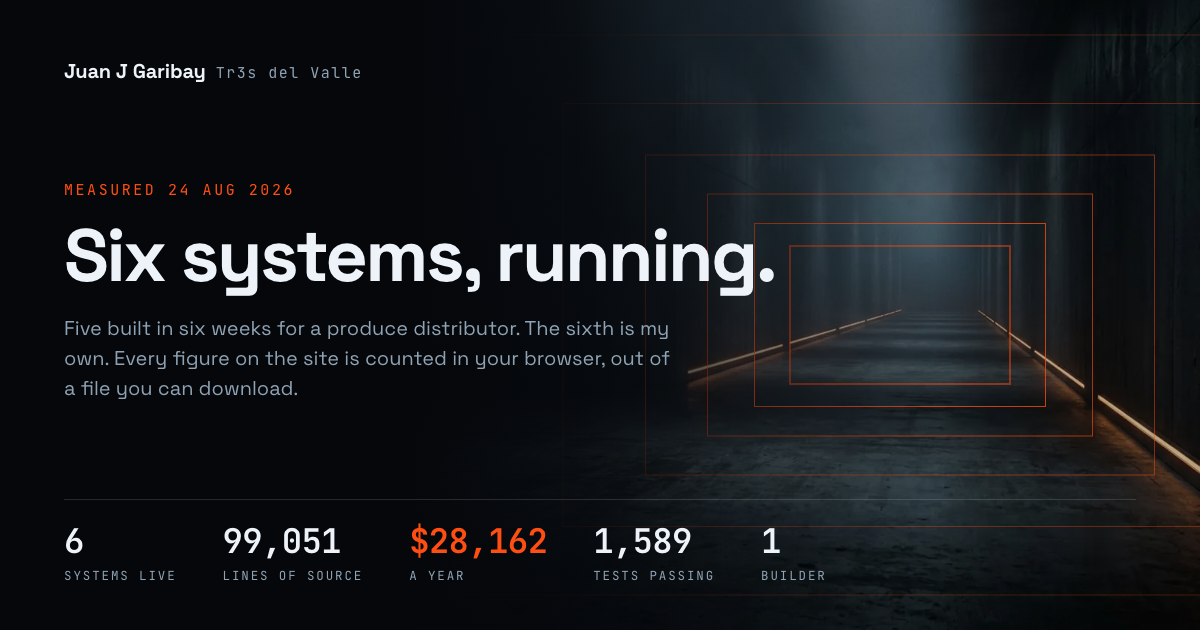
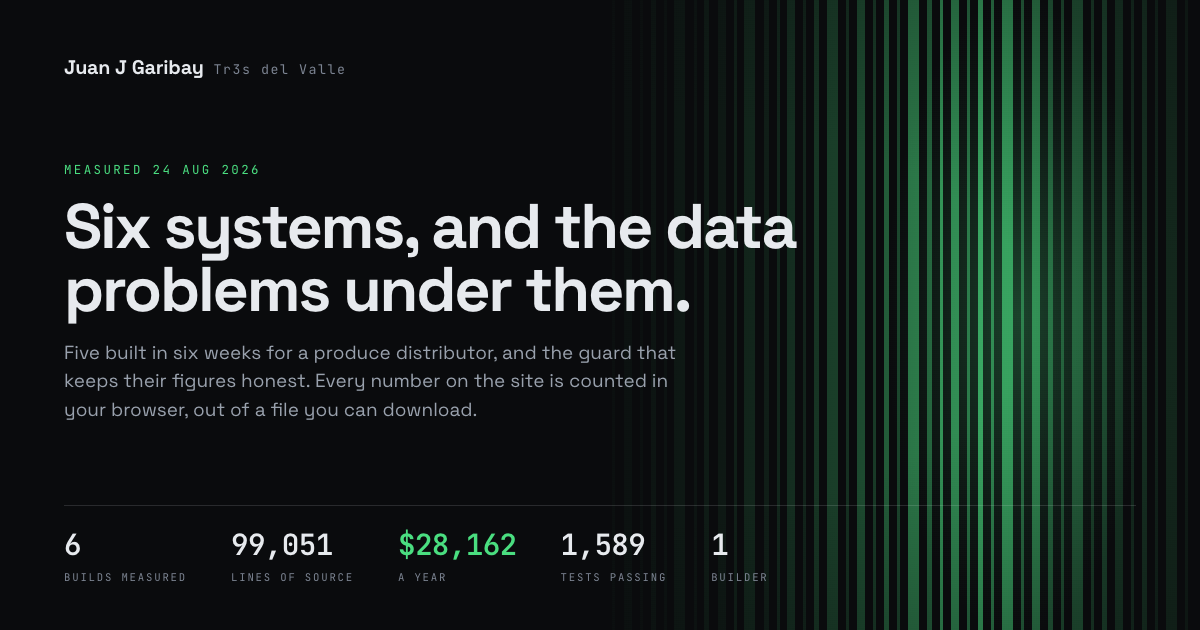
feat(og): the card matches the page it links to, and can be rebuilt
The social card was still the flight's: orange, corridor frames, and a
headline the front page no longer carries. Every link preview of the
site advertised a page that had been replaced.

It is now the case pack's — the site's near-black and its one green, and
the Code 128 field the page draws in a shader, drawn here in CSS at the
moment of one sweep. Type is self-hosted from css/fonts.css instead of
fetched from Google, so the render is deterministic and needs no network.

The figures still cover all six builds, not the five the pack shows, and
check.mjs still asserts every one of them against js/data.js. The labels
now say what they count: "Builds measured", not "Systems live", because
one of the six is in use rather than live.

Bumped the query to ?v=2026-08-24-b on all three pages. img/ is served
immutable for a year, so a card regenerated at the same URL is a card
nobody ever sees — the guard only requires the query to contain the
measurement date, which leaves room for a revision suffix when the art
moves and the measurement has not.

Added tools/render-og.sh, which is what the file's own comment has been
claiming existed since it was written. It renders over http rather than
file://, because the card loads its fonts by relative path and a file://
origin silently sets the whole card in a fallback face.

diff --git a/og-source.html b/og-source.html
@@ -4,19 +4,23 @@
      figures change, instead of becoming a stale binary nobody can rebuild.
      Excluded from deploys via .vercelignore.
 
-     Restyled 24 Aug 2026 to match the flight that is now the front page: the
-     same near-black, the same single orange, and the same nested gantry frames
-     the corridor is built from. A social card that does not look like the page
-     it links to is a broken promise before anyone has clicked. -->
+     Restyled 8 Sep 2026 for the case pack that is now the front page: the
+     site's own near-black and its one green, and the Code 128 field the page
+     draws in a shader, drawn here in CSS. A social card that does not look
+     like the page it links to is a broken promise before anyone has clicked.
+
+     The figures here cover all SIX builds — every repository in
+     evidence.json, Currents included — which is why they are larger than the
+     five-tool totals the pack itself shows. check.mjs asserts each one
+     against js/data.js, because nothing can read a number once it is inside
+     a PNG.
+
+     Type is self-hosted from css/fonts.css rather than fetched from a CDN, so
+     the render is deterministic and needs no network. -->
 <html lang="en">
   <head>
     <meta charset="utf-8" />
-    <link rel="preconnect" href="https://fonts.googleapis.com" />
-    <link rel="preconnect" href="https://fonts.gstatic.com" crossorigin />
-    <link
-      rel="stylesheet"
-      href="https://fonts.googleapis.com/css2?family=Space+Grotesk:wght@400;500;700&family=JetBrains+Mono:wght@400;500;600&display=swap"
-    />
+    <link rel="stylesheet" href="css/fonts.css" />
     <style>
       * { margin: 0; padding: 0; box-sizing: border-box; }
 
@@ -24,46 +28,59 @@
         width: 1200px;
         height: 630px;
         overflow: hidden;
-        background: #05070b;
-        color: #edf3f8;
+        background: #0a0b0d;
+        color: #e7eaee;
         font-family: 'Space Grotesk', system-ui, sans-serif;
         display: flex;
         flex-direction: column;
         justify-content: space-between;
-        padding: 58px 64px 46px;
+        padding: 54px 64px 46px;
         position: relative;
         -webkit-font-smoothing: antialiased;
       }
 
-      /* A real corridor behind, and the CSS frames on top of it. The drawn
-         frames stay: they are what ties the card to the page, which is built
-         out of exactly that shape. */
-      .plate {
-        position: absolute; inset: 0;
-        width: 100%; height: 100%;
-        object-fit: cover;
-        opacity: 0.72;
+      /* The field. The page draws this in a fragment shader — bands of Code 128
+         bars at four depths with a beam sweeping them. Here it is that field at
+         the moment of one sweep, which is all a still card can be. */
+      .field { position: absolute; inset: 0; overflow: hidden; }
+      .field i {
+        position: absolute;
+        top: 0;
+        height: 100%;
+        background: #4ade80;
       }
 
-      /* The corridor, in CSS. Nested frames receding to a vanishing point set
-         right of centre, exactly like the page: the type holds the left. */
-      .corridor { position: absolute; inset: 0; overflow: hidden; }
-      /* Density only where the type sits, same as the page. Without it the
-         frames run straight through the headline and the sub. */
-      .corridor::after {
+      /* The beam, caught mid-pass on the right, where the type is not. */
+      .beam {
+        position: absolute;
+        top: 0;
+        bottom: 0;
+        left: 74%;
+        width: 260px;
+        background: radial-gradient(ellipse at center,
+          rgba(74, 222, 128, 0.30) 0%,
+          rgba(74, 222, 128, 0.10) 45%,
+          transparent 72%);
+      }
+
+      /* Density only where the type is not, same as the page: the field is at
+         full strength on the right and gone under the headline. */
+      .field::after {
         content: '';
         position: absolute; inset: 0;
         background: linear-gradient(to right,
-          #05070b 0%, #05070b 34%,
-          rgba(5, 7, 11, 0.86) 48%,
-          rgba(5, 7, 11, 0.35) 64%,
-          transparent 78%);
+          #0a0b0d 0%, #0a0b0d 33%,
+          rgba(10, 11, 13, 0.90) 46%,
+          rgba(10, 11, 13, 0.55) 62%,
+          rgba(10, 11, 13, 0.18) 80%,
+          transparent 100%);
       }
-      .corridor i {
-        position: absolute;
-        left: 50%; top: 50%;
-        border: 1px solid #ff4e12;
-        transform: translate(-50%, -50%);
+
+      /* The vignette the shader ends on. */
+      .vignette {
+        position: absolute; inset: 0;
+        background: radial-gradient(ellipse 90% 80% at 50% 50%,
+          transparent 40%, rgba(10, 11, 13, 0.55) 100%);
       }
 
       .byline {
@@ -71,77 +88,121 @@
         font-family: 'JetBrains Mono', monospace;
         font-size: 15px;
         letter-spacing: 0.1em;
-        color: #8fa3b4;
+        color: #7c8492;
         display: flex;
         gap: 10px;
         align-items: baseline;
       }
-      .byline strong { color: #edf3f8; font-family: 'Space Grotesk', sans-serif; font-size: 20px; font-weight: 700; letter-spacing: -0.01em; }
+      .byline strong {
+        color: #e7eaee;
+        font-family: 'Space Grotesk', sans-serif;
+        font-size: 20px;
+        font-weight: 700;
+        letter-spacing: -0.01em;
+      }
 
-      .top { position: relative; max-width: 720px; }
+      .top { position: relative; max-width: 760px; }
 
       .kicker {
         font-family: 'JetBrains Mono', monospace;
-        font-size: 15px;
+        font-size: 14px;
         letter-spacing: 0.17em;
         text-transform: uppercase;
-        color: #ff4e12;
-        margin-bottom: 20px;
+        color: #4ade80;
+        margin-bottom: 18px;
       }
 
       h1 {
-        font-size: 74px;
+        font-size: 64px;
         line-height: 0.98;
         letter-spacing: -0.035em;
         font-weight: 700;
-        margin-bottom: 20px;
+        margin-bottom: 18px;
       }
 
       .sub {
-        font-size: 20px;
+        font-size: 19px;
         line-height: 1.5;
-        color: #8fa3b4;
-        max-width: 610px;
+        color: #99a1ad;
+        max-width: 640px;
       }
 
       .stats {
         position: relative;
         display: flex;
-        gap: 46px;
-        border-top: 1px solid rgba(237, 243, 248, 0.14);
-        padding-top: 24px;
+        gap: 44px;
+        border-top: 1px solid rgba(231, 234, 238, 0.14);
+        padding-top: 22px;
       }
       .stat-value {
         font-family: 'JetBrains Mono', monospace;
-        font-size: 34px;
+        font-size: 33px;
         font-weight: 600;
         letter-spacing: -0.02em;
         font-variant-numeric: tabular-nums;
         line-height: 1;
       }
-      .stat-value.accent { color: #ff4e12; }
+      .stat-value.accent { color: #4ade80; }
       .stat-label {
         font-family: 'JetBrains Mono', monospace;
-        font-size: 12.5px;
+        font-size: 12px;
         letter-spacing: 0.15em;
         text-transform: uppercase;
-        color: #8fa3b4;
+        color: #7c8492;
         margin-top: 9px;
       }
     </style>
   </head>
   <body>
-    <img class="plate" src="img/og-plate.webp" alt="" />
-    <div class="corridor" aria-hidden="true">
-      <i style="width:1560px;height:980px;margin-left:300px;opacity:0.10"></i>
-      <i style="width:1180px;height:742px;margin-left:300px;opacity:0.16"></i>
-      <i style="width:892px;height:561px;margin-left:300px;opacity:0.24"></i>
-      <i style="width:675px;height:424px;margin-left:300px;opacity:0.34"></i>
-      <i style="width:510px;height:321px;margin-left:300px;opacity:0.46"></i>
-      <i style="width:386px;height:243px;margin-left:300px;opacity:0.60"></i>
-      <i style="width:292px;height:184px;margin-left:300px;opacity:0.76"></i>
-      <i style="width:221px;height:139px;margin-left:300px;opacity:0.92"></i>
+    <!-- Bar widths are quantised to four values, which is what makes a barcode
+         read as a barcode rather than as a stripe pattern. -->
+    <div class="field" aria-hidden="true">
+      <i style="left:612px;width:3px;opacity:0.10"></i>
+      <i style="left:624px;width:8px;opacity:0.13"></i>
+      <i style="left:640px;width:3px;opacity:0.09"></i>
+      <i style="left:651px;width:5px;opacity:0.16"></i>
+      <i style="left:664px;width:3px;opacity:0.11"></i>
+      <i style="left:674px;width:11px;opacity:0.18"></i>
+      <i style="left:694px;width:3px;opacity:0.12"></i>
+      <i style="left:704px;width:5px;opacity:0.20"></i>
+      <i style="left:718px;width:8px;opacity:0.15"></i>
+      <i style="left:734px;width:3px;opacity:0.22"></i>
+      <i style="left:744px;width:11px;opacity:0.26"></i>
+      <i style="left:764px;width:5px;opacity:0.18"></i>
+      <i style="left:777px;width:3px;opacity:0.24"></i>
+      <i style="left:787px;width:8px;opacity:0.30"></i>
+      <i style="left:803px;width:3px;opacity:0.21"></i>
+      <i style="left:814px;width:5px;opacity:0.34"></i>
+      <i style="left:827px;width:11px;opacity:0.40"></i>
+      <i style="left:846px;width:3px;opacity:0.28"></i>
+      <i style="left:857px;width:8px;opacity:0.46"></i>
+      <i style="left:873px;width:3px;opacity:0.33"></i>
+      <i style="left:884px;width:5px;opacity:0.55"></i>
+      <i style="left:897px;width:3px;opacity:0.38"></i>
+      <i style="left:908px;width:11px;opacity:0.68"></i>
+      <i style="left:927px;width:5px;opacity:0.52"></i>
+      <i style="left:940px;width:3px;opacity:0.80"></i>
+      <i style="left:951px;width:8px;opacity:0.72"></i>
+      <i style="left:967px;width:3px;opacity:0.58"></i>
+      <i style="left:978px;width:5px;opacity:0.86"></i>
+      <i style="left:991px;width:3px;opacity:0.64"></i>
+      <i style="left:1002px;width:11px;opacity:0.78"></i>
+      <i style="left:1021px;width:3px;opacity:0.50"></i>
+      <i style="left:1032px;width:8px;opacity:0.62"></i>
+      <i style="left:1048px;width:5px;opacity:0.44"></i>
+      <i style="left:1061px;width:3px;opacity:0.36"></i>
+      <i style="left:1072px;width:11px;opacity:0.40"></i>
+      <i style="left:1091px;width:3px;opacity:0.26"></i>
+      <i style="left:1102px;width:5px;opacity:0.30"></i>
+      <i style="left:1115px;width:8px;opacity:0.22"></i>
+      <i style="left:1131px;width:3px;opacity:0.17"></i>
+      <i style="left:1142px;width:5px;opacity:0.20"></i>
+      <i style="left:1155px;width:3px;opacity:0.13"></i>
+      <i style="left:1166px;width:11px;opacity:0.15"></i>
+      <i style="left:1185px;width:3px;opacity:0.09"></i>
+      <div class="beam"></div>
     </div>
+    <div class="vignette" aria-hidden="true"></div>
 
     <div class="byline">
       <strong>Juan J Garibay</strong>
@@ -150,17 +211,18 @@
 
     <div class="top">
       <div class="kicker">Measured 24 Aug 2026</div>
-      <h1>Six systems, running.</h1>
+      <h1>Six systems, and the data problems under them.</h1>
       <p class="sub">
-        Five built in six weeks for a produce distributor. The sixth is my own. Every figure on
-        the site is counted in your browser, out of a file you can download.
+        Five built in six weeks for a produce distributor, and the guard that keeps their
+        figures honest. Every number on the site is counted in your browser, out of a file
+        you can download.
       </p>
     </div>
 
     <div class="stats">
       <div class="stat">
         <div class="stat-value">6</div>
-        <div class="stat-label">Systems live</div>
+        <div class="stat-label">Builds measured</div>
       </div>
       <div class="stat">
         <div class="stat-value">99,051</div>

diff --git a/index.html b/index.html
@@ -31,14 +31,14 @@
 <meta property="og:url" content="https://juan-garibay-portfolio.vercel.app/">
 <meta property="og:title" content="Six systems, and the data problems under them">
 <meta property="og:description" content="An operations case pack: five production tools and one control layer, each on the same twelve-block schema, with every figure counted in your browser from a file you can download.">
-<meta property="og:image" content="https://juan-garibay-portfolio.vercel.app/img/og.png?v=2026-08-24">
+<meta property="og:image" content="https://juan-garibay-portfolio.vercel.app/img/og.png?v=2026-08-24-b">
 <meta property="og:image:width" content="1200">
 <meta property="og:image:height" content="630">
 <meta property="og:image:alt" content="A dark corridor of receding orange frames, with the headline and a row of measured totals across the bottom.">
 <meta name="twitter:card" content="summary_large_image">
 <meta name="twitter:title" content="Six systems, and the data problems under them">
 <meta name="twitter:description" content="Five production tools and one control layer, each on the same twelve-block schema.">
-<meta name="twitter:image" content="https://juan-garibay-portfolio.vercel.app/img/og.png?v=2026-08-24">
+<meta name="twitter:image" content="https://juan-garibay-portfolio.vercel.app/img/og.png?v=2026-08-24-b">
 
 <script type="application/ld+json">
 {

diff --git a/flight.html b/flight.html
@@ -25,14 +25,14 @@
 <meta property="og:url" content="https://juan-garibay-portfolio.vercel.app/flight.html">
 <meta property="og:title" content="Six systems, running.">
 <meta property="og:description" content="Five built in six weeks for a produce distributor. The sixth is my own. Every figure on this page is counted in your browser, out of a file you can download.">
-<meta property="og:image" content="https://juan-garibay-portfolio.vercel.app/img/og.png?v=2026-08-24">
+<meta property="og:image" content="https://juan-garibay-portfolio.vercel.app/img/og.png?v=2026-08-24-b">
 <meta property="og:image:width" content="1200">
 <meta property="og:image:height" content="630">
 <meta property="og:image:alt" content="A dark corridor of receding orange frames, with the headline and a row of measured totals across the bottom.">
 <meta name="twitter:card" content="summary_large_image">
 <meta name="twitter:title" content="Six systems, running.">
 <meta name="twitter:description" content="Every figure on this page is counted in your browser, out of a file you can download.">
-<meta name="twitter:image" content="https://juan-garibay-portfolio.vercel.app/img/og.png?v=2026-08-24">
+<meta name="twitter:image" content="https://juan-garibay-portfolio.vercel.app/img/og.png?v=2026-08-24-b">
 <meta name="author" content="Juan J Garibay">
 <script type="application/ld+json">
 {

diff --git a/evidence.html b/evidence.html
@@ -22,7 +22,7 @@
     />
     <!-- Card regenerated from og-source.html whenever the headline figures move,
          so the preview can never drift from the page it advertises. -->
-    <meta property="og:image" content="https://juan-garibay-portfolio.vercel.app/img/og.png?v=2026-08-24" />
+    <meta property="og:image" content="https://juan-garibay-portfolio.vercel.app/img/og.png?v=2026-08-24-b" />
     <meta property="og:image:width" content="1200" />
     <meta property="og:image:height" content="630" />
     <meta
@@ -35,7 +35,7 @@
       name="twitter:description"
       content="Five systems running a real distribution business, with the evidence behind each one."
     />
-    <meta name="twitter:image" content="https://juan-garibay-portfolio.vercel.app/img/og.png?v=2026-08-24" />
+    <meta name="twitter:image" content="https://juan-garibay-portfolio.vercel.app/img/og.png?v=2026-08-24-b" />
 
     <link rel="icon" href="/favicon.svg" type="image/svg+xml" />
 

diff --git a/README.md b/README.md
@@ -81,7 +81,8 @@ evidence.json     the measured figures, regenerated by measure.mjs from git and 
 css/tokens.css    palette, type scale, component classes — shared by all three pages
 css/page.css      evidence.html layout, accessibility corrections, the print stylesheet
 check.mjs         fails if any copy of the data drifts from js/data.js
-og-source.html    source for img/og.png; re-render it when the headline figures move
+og-source.html    source for img/og.png, rebuilt by tools/render-og.sh
+tools/render-og.sh  rebuilds the social card; bump the ?v= suffix after it runs
 ```
 
 ## Decisions worth knowing about
